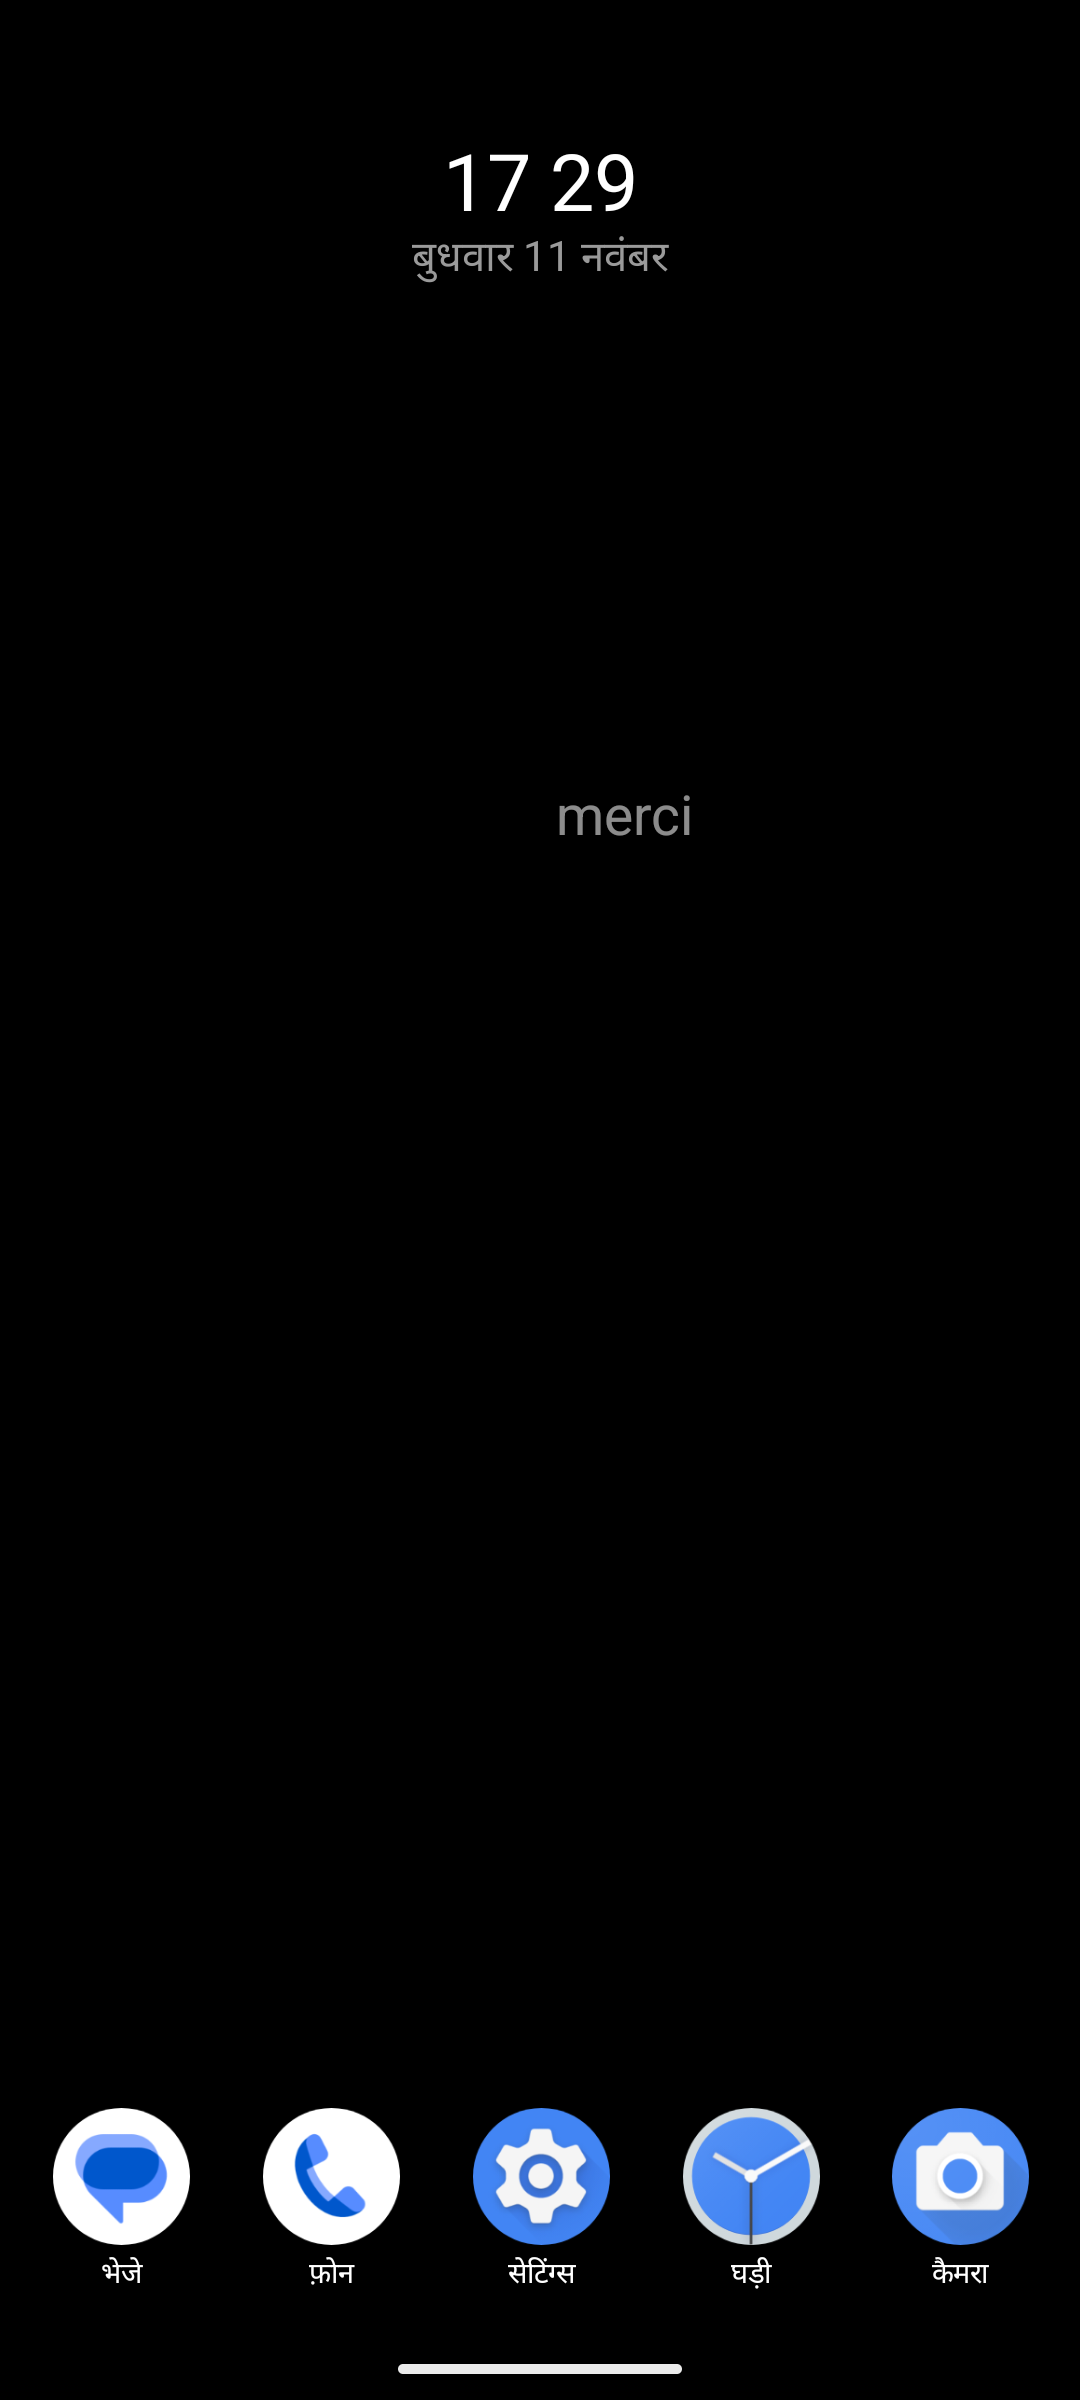
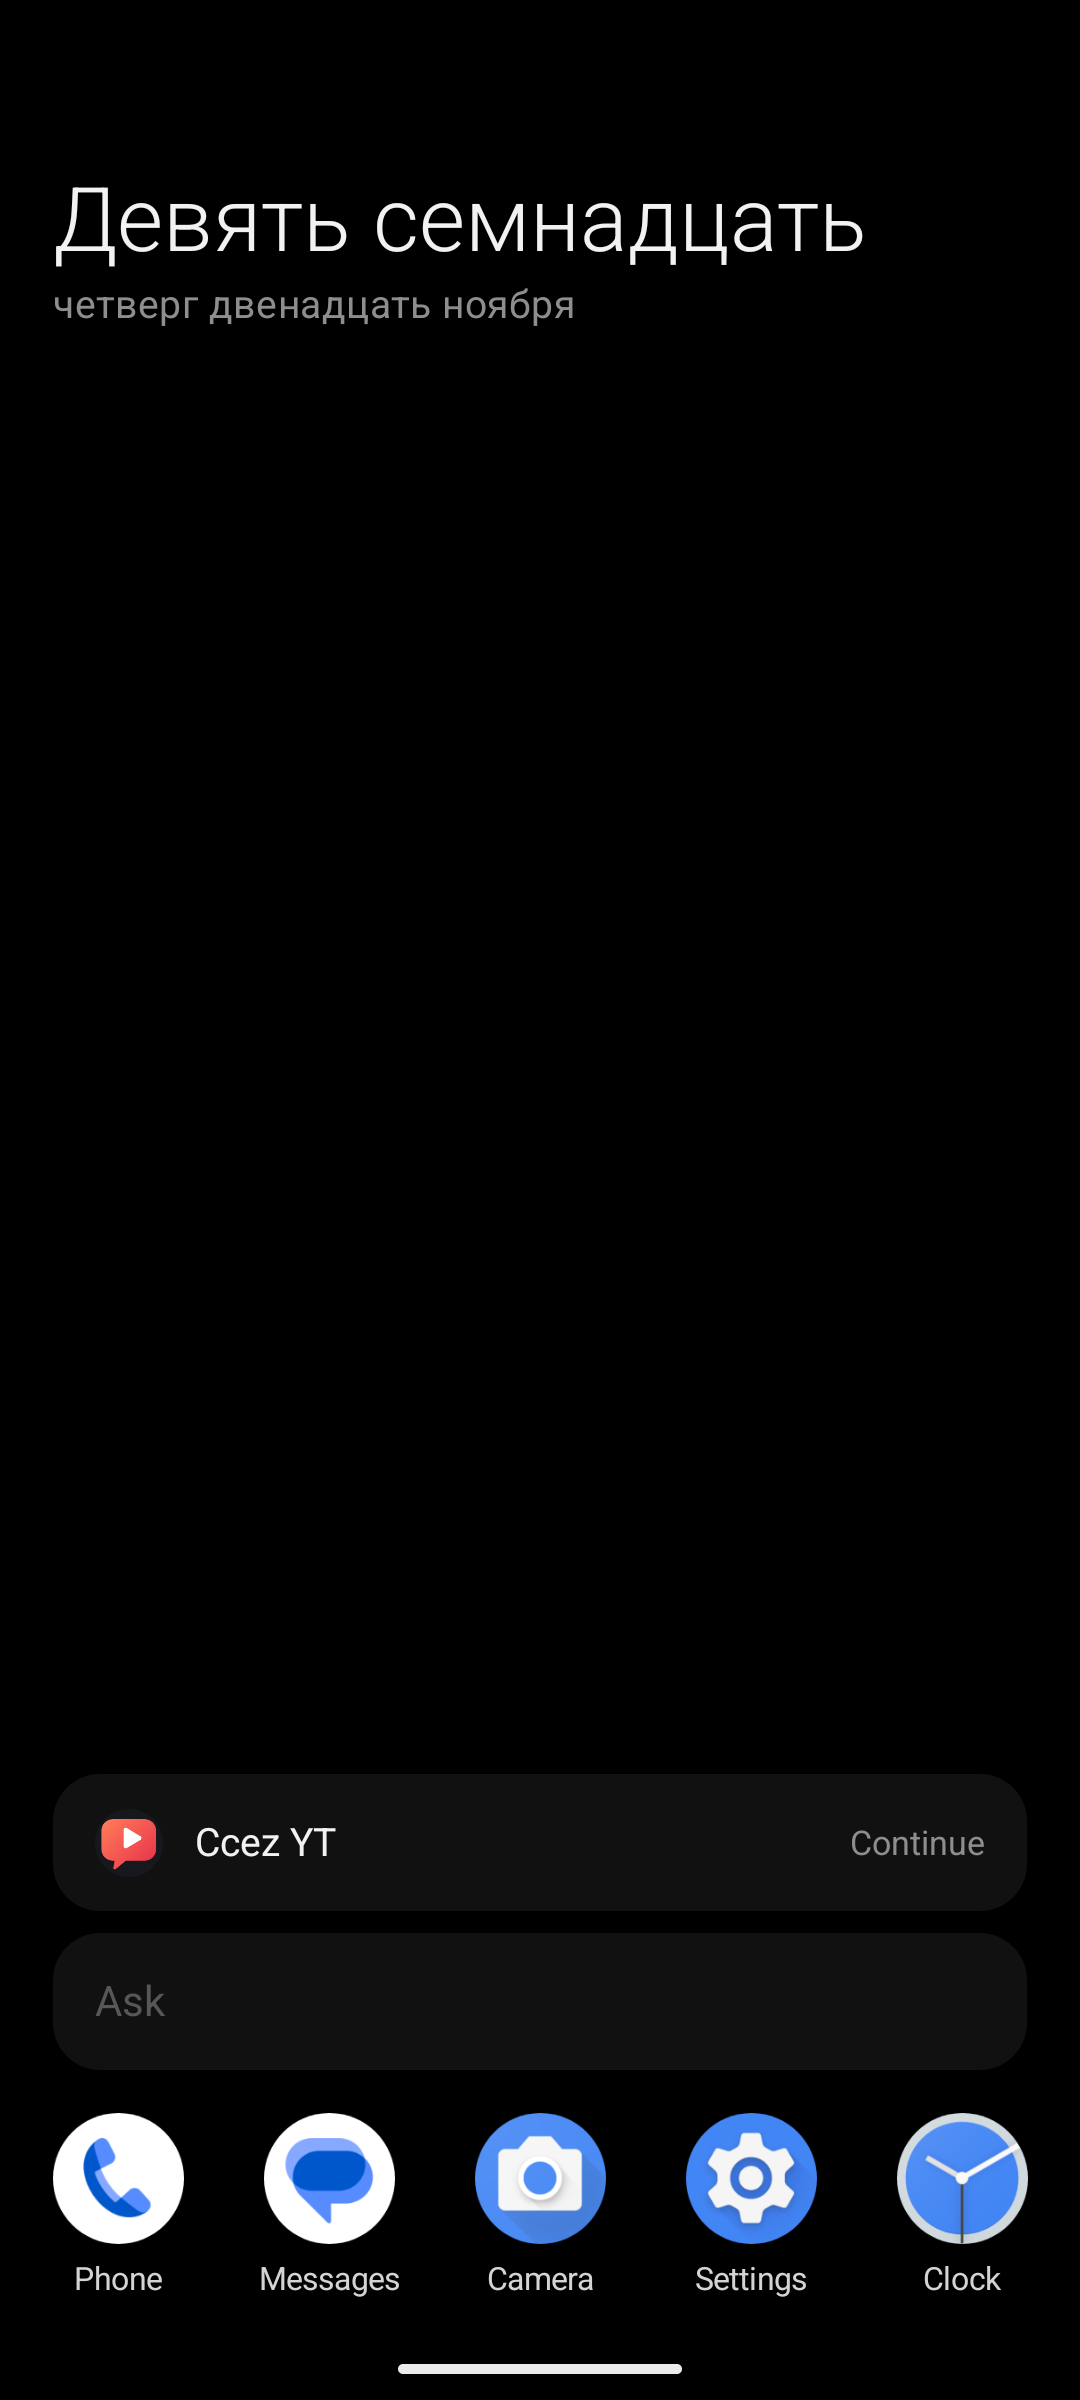
Goldens for the new look; PLAN status

diff --git a/PLAN.md b/PLAN.md
@@ -152,6 +152,17 @@ isn't installed there.
 
 ## Status
 
+2026-11-12, branch `look` (not merged, waiting on the owner's yes): one
+refined look. One grid (20 dp margins; dock and drawer icons land on
+them), a thin left-aligned clock, filled pill fields for Search and Ask,
+six pins in one row on a phone (`dockColumns`), search results with app
+icons and the kind on the right, quiet hairline-split app menu with the
+app's icon, word cards with lighter chips, home words that wrap their
+meaning on screen and keep apart (spacing follows the font size), and the
+drawer rising in and sinking out. Behaviour and gestures unchanged; all
+gates passed on launcher_avd (23 instrumented tests), goldens updated
+except `home-widget.png` and `gate.png` (unchanged screens' code).
+
 2026-11-12, from the owner's S24: the drawer no longer focuses search or
 raises the keyboard on open, and a swipe up on the pinned row, the Ask
 field or the Continue strip opens the drawer as on empty home (a hold
